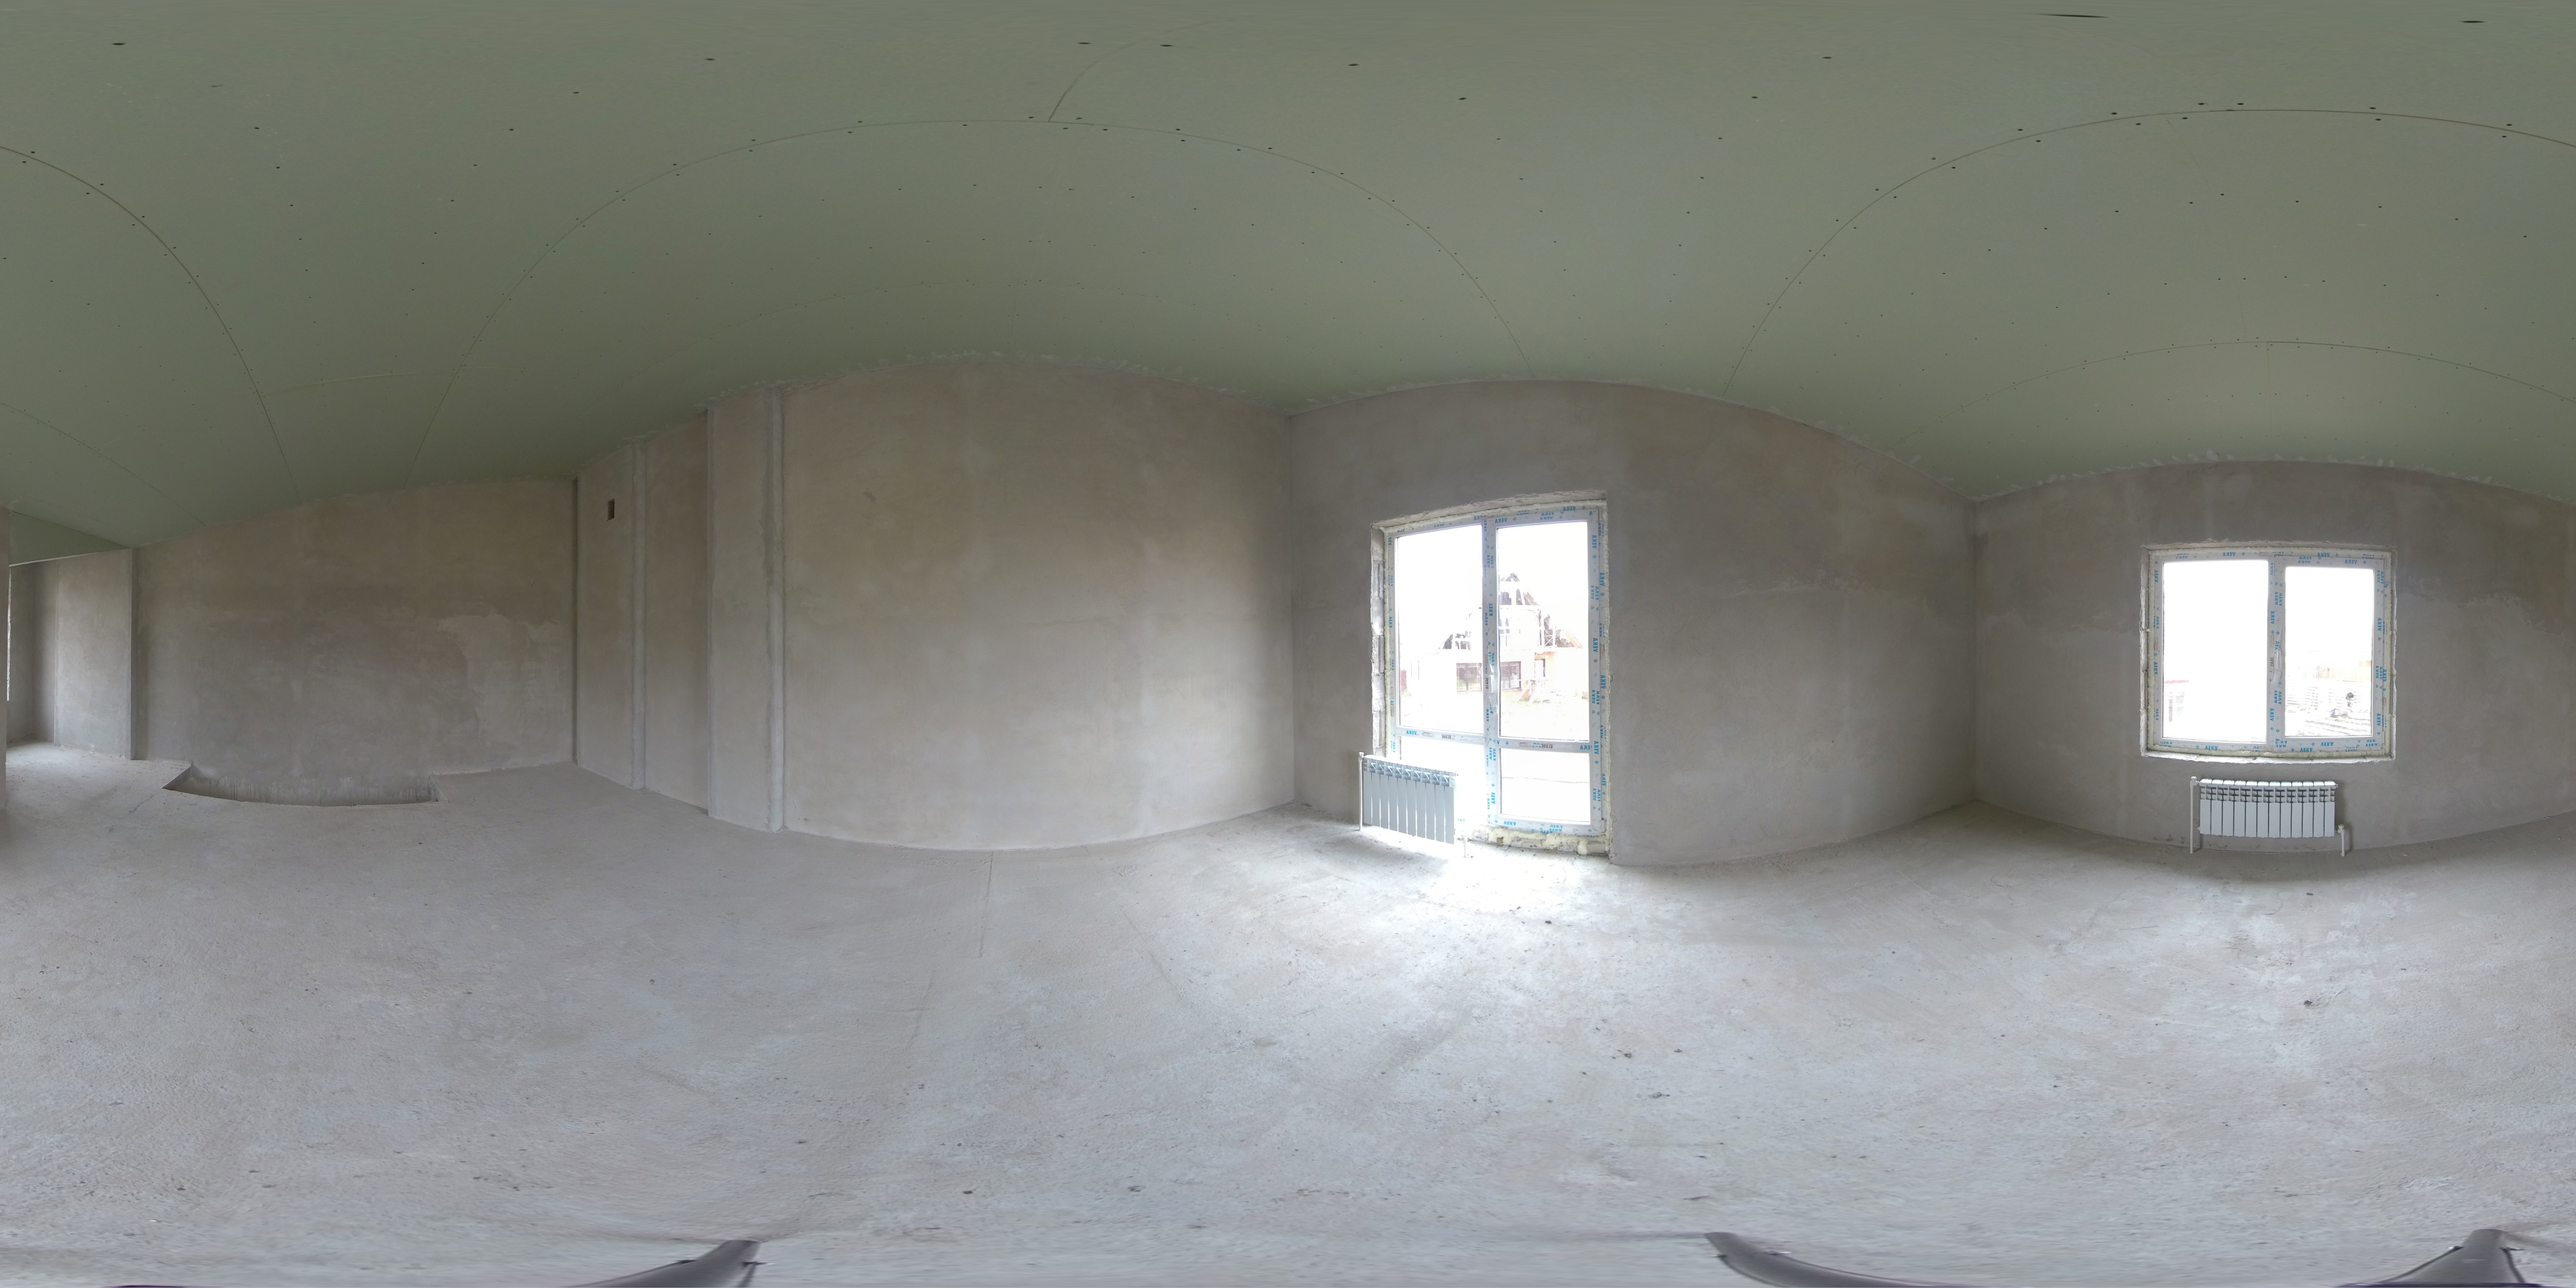
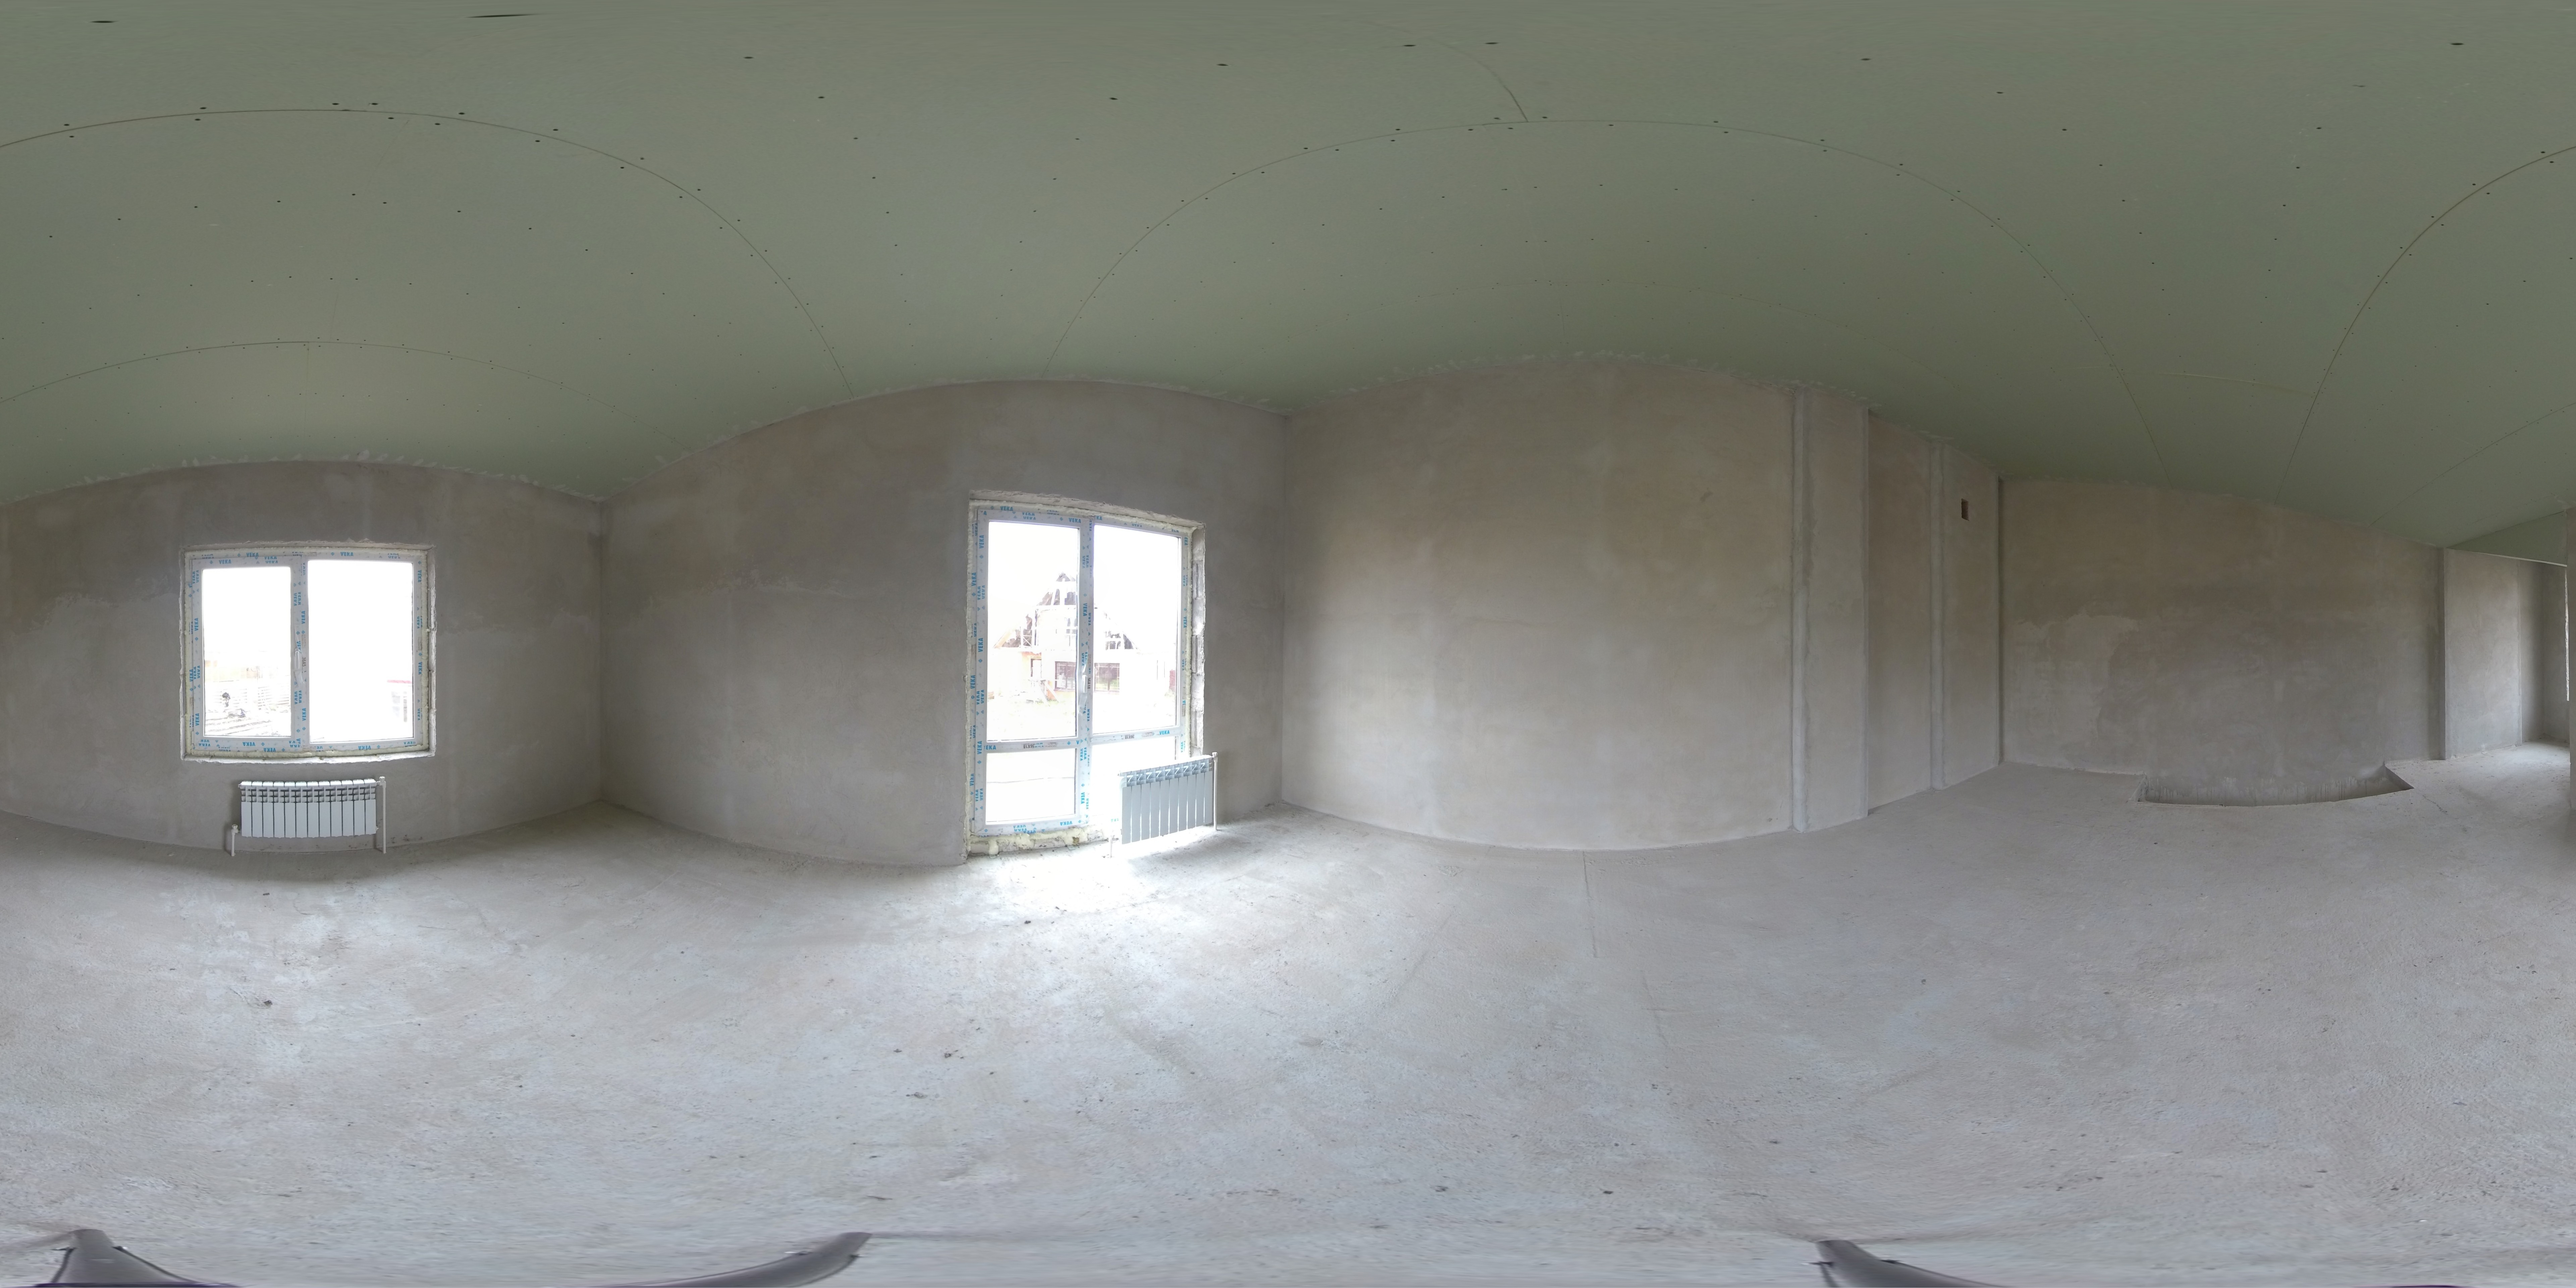
set look point

diff --git a/js/scripts.pano.js b/js/scripts.pano.js
@@ -25,33 +25,89 @@ viewer = new PANOLENS.Viewer( {output: 'console', container: container});
 viewer.add( panorama1, panorama2, panorama3, panorama4, panorama5, panorama6, panorama7, panorama8, panorama9, panorama10, panorama11, panorama12);
 
 panorama1.link( panorama2, new THREE.Vector3( 4321, 285, -2492 ) );
+
+panorama1.addEventListener( 'enter-fade-start', function(){
+  viewer.tweenControlCenter( new THREE.Vector3(4073.53, 543.98, -2833.95), 0 );
+} );
+
 panorama2.link( panorama1, new THREE.Vector3( 4920.45, -52.53, -841.50 ) );
 panorama2.link( panorama3, new THREE.Vector3( 261.82, -358.27, -4972.89 ) );
+
+panorama2.addEventListener( 'enter-fade-start', function(){
+  viewer.tweenControlCenter( new THREE.Vector3(1750.87, 495.49, -4646.74), 0 );
+} );
+
 panorama3.link( panorama4, new THREE.Vector3( 3366.00, 162.52, 3686.67 ) );
 panorama3.link( panorama2, new THREE.Vector3( -597.00, -211.52, 4952.67 ) );
+
+panorama3.addEventListener( 'enter-fade-start', function(){
+  viewer.tweenControlCenter( new THREE.Vector3(3351.07, 531.55, 3665.27), 0 );
+} );
+
 panorama4.link( panorama5, new THREE.Vector3( -3391.00, -284.52, -3654.67 ) );
 panorama4.link( panorama3, new THREE.Vector3( -2268.00, -184.52, -4439.67 ) );
+
+panorama4.addEventListener( 'enter-fade-start', function(){
+  viewer.tweenControlCenter( new THREE.Vector3(-3410.00, 83.49, -3646.74), 0 );
+} );
+
 panorama5.link( panorama4, new THREE.Vector3( 905.31, -1713.15, 4601.88 ) );
 panorama5.link( panorama6, new THREE.Vector3( 4455.46, -2227.34, -366.58 ) );
+
+panorama5.addEventListener( 'enter-fade-start', function(){
+  viewer.tweenControlCenter( new THREE.Vector3(4309.57, -823.48, -2386.86), 0 );
+} );
+
 panorama6.link( panorama5, new THREE.Vector3( 4854.44, -241.01, 1138.49 ) );
 panorama6.link( panorama7, new THREE.Vector3( 2234.58, -655.35, -4413.19 ) );
 panorama6.link( panorama8, new THREE.Vector3( -4871.50, 15.43, -1109.03 ) );
 panorama6.link( panorama10, new THREE.Vector3( -337.45, 692.85, 4931.33 ) );
+
+panorama6.addEventListener( 'enter-fade-start', function(){
+  viewer.tweenControlCenter( new THREE.Vector3(-2150.85, -419.98, -4487.08), 0 );
+} );
+
 panorama7.link( panorama6, new THREE.Vector3( 2264.53, -1513.16, 4185.92 ) );
+
+panorama7.addEventListener( 'enter-fade-start', function(){
+  viewer.tweenControlCenter( new THREE.Vector3(2193.97, -353.20, -4470.50), 0 );
+} );
+
 panorama8.link( panorama6, new THREE.Vector3( 2631.72, -463.27, -4216.23 ) );
+
+panorama8.addEventListener( 'enter-fade-start', function(){
+  viewer.tweenControlCenter( new THREE.Vector3(2541.04, -729.52, -4237.59), 0 );
+} );
+
 panorama9.link( panorama6, new THREE.Vector3( -10.55, -2842.75, 4108.80 ) );
 panorama9.link( panorama10, new THREE.Vector3( -1430.84, -86.37, 4782.39 ) );
 panorama9.link( panorama11, new THREE.Vector3( -3772.39, -2859.86, 1591.85 ) );
-panorama9.link( panorama12, new THREE.Vector3( 814.68, -40.45, -4924.75 ) );
+
+panorama9.addEventListener( 'enter-fade-start', function(){
+  viewer.tweenControlCenter( new THREE.Vector3(1133.75, 61.61, -4863.00), 0 );
+} );
+
 panorama10.link( panorama6, new THREE.Vector3( 929.75, -2984.70, 3895.61 ) );
 panorama10.link( panorama9, new THREE.Vector3( 2932.62, -714.38, 3981.40 ) );
 panorama10.link( panorama11, new THREE.Vector3( 4437.52, -398.18, 2253.79 ) );
 panorama10.link( panorama12, new THREE.Vector3( 3691.83, -207.69, -3358.02 ) );
-panorama11.link( panorama8, new THREE.Vector3( 4342.02, -1742.10, 1737.21 ) );
-panorama12.link( panorama8, new THREE.Vector3( 814.68, -40.45, -4924.75 ) );
-//viewer.addUpdateCallback(function(){
-//  
-//});
+
+panorama10.addEventListener( 'enter-fade-start', function(){
+  viewer.tweenControlCenter( new THREE.Vector3(4982.57, -279.44, 123.06), 0 );
+} );
+
+panorama11.link( panorama10, new THREE.Vector3( -1798.72, -246.42, -4647.56 ) );
+
+panorama11.addEventListener( 'enter-fade-start', function(){
+  viewer.tweenControlCenter( new THREE.Vector3(-3486.94, 140.72, 3566.63), 0 );
+} );
+
+panorama12.link( panorama10, new THREE.Vector3( -3196.72, 240.41, -3824.19 ) );
+
+panorama12.addEventListener( 'enter-fade-start', function(){
+  viewer.tweenControlCenter( new THREE.Vector3(4036.05, -225.67, -2936.02), 0 );
+} );
+
 
 
 
